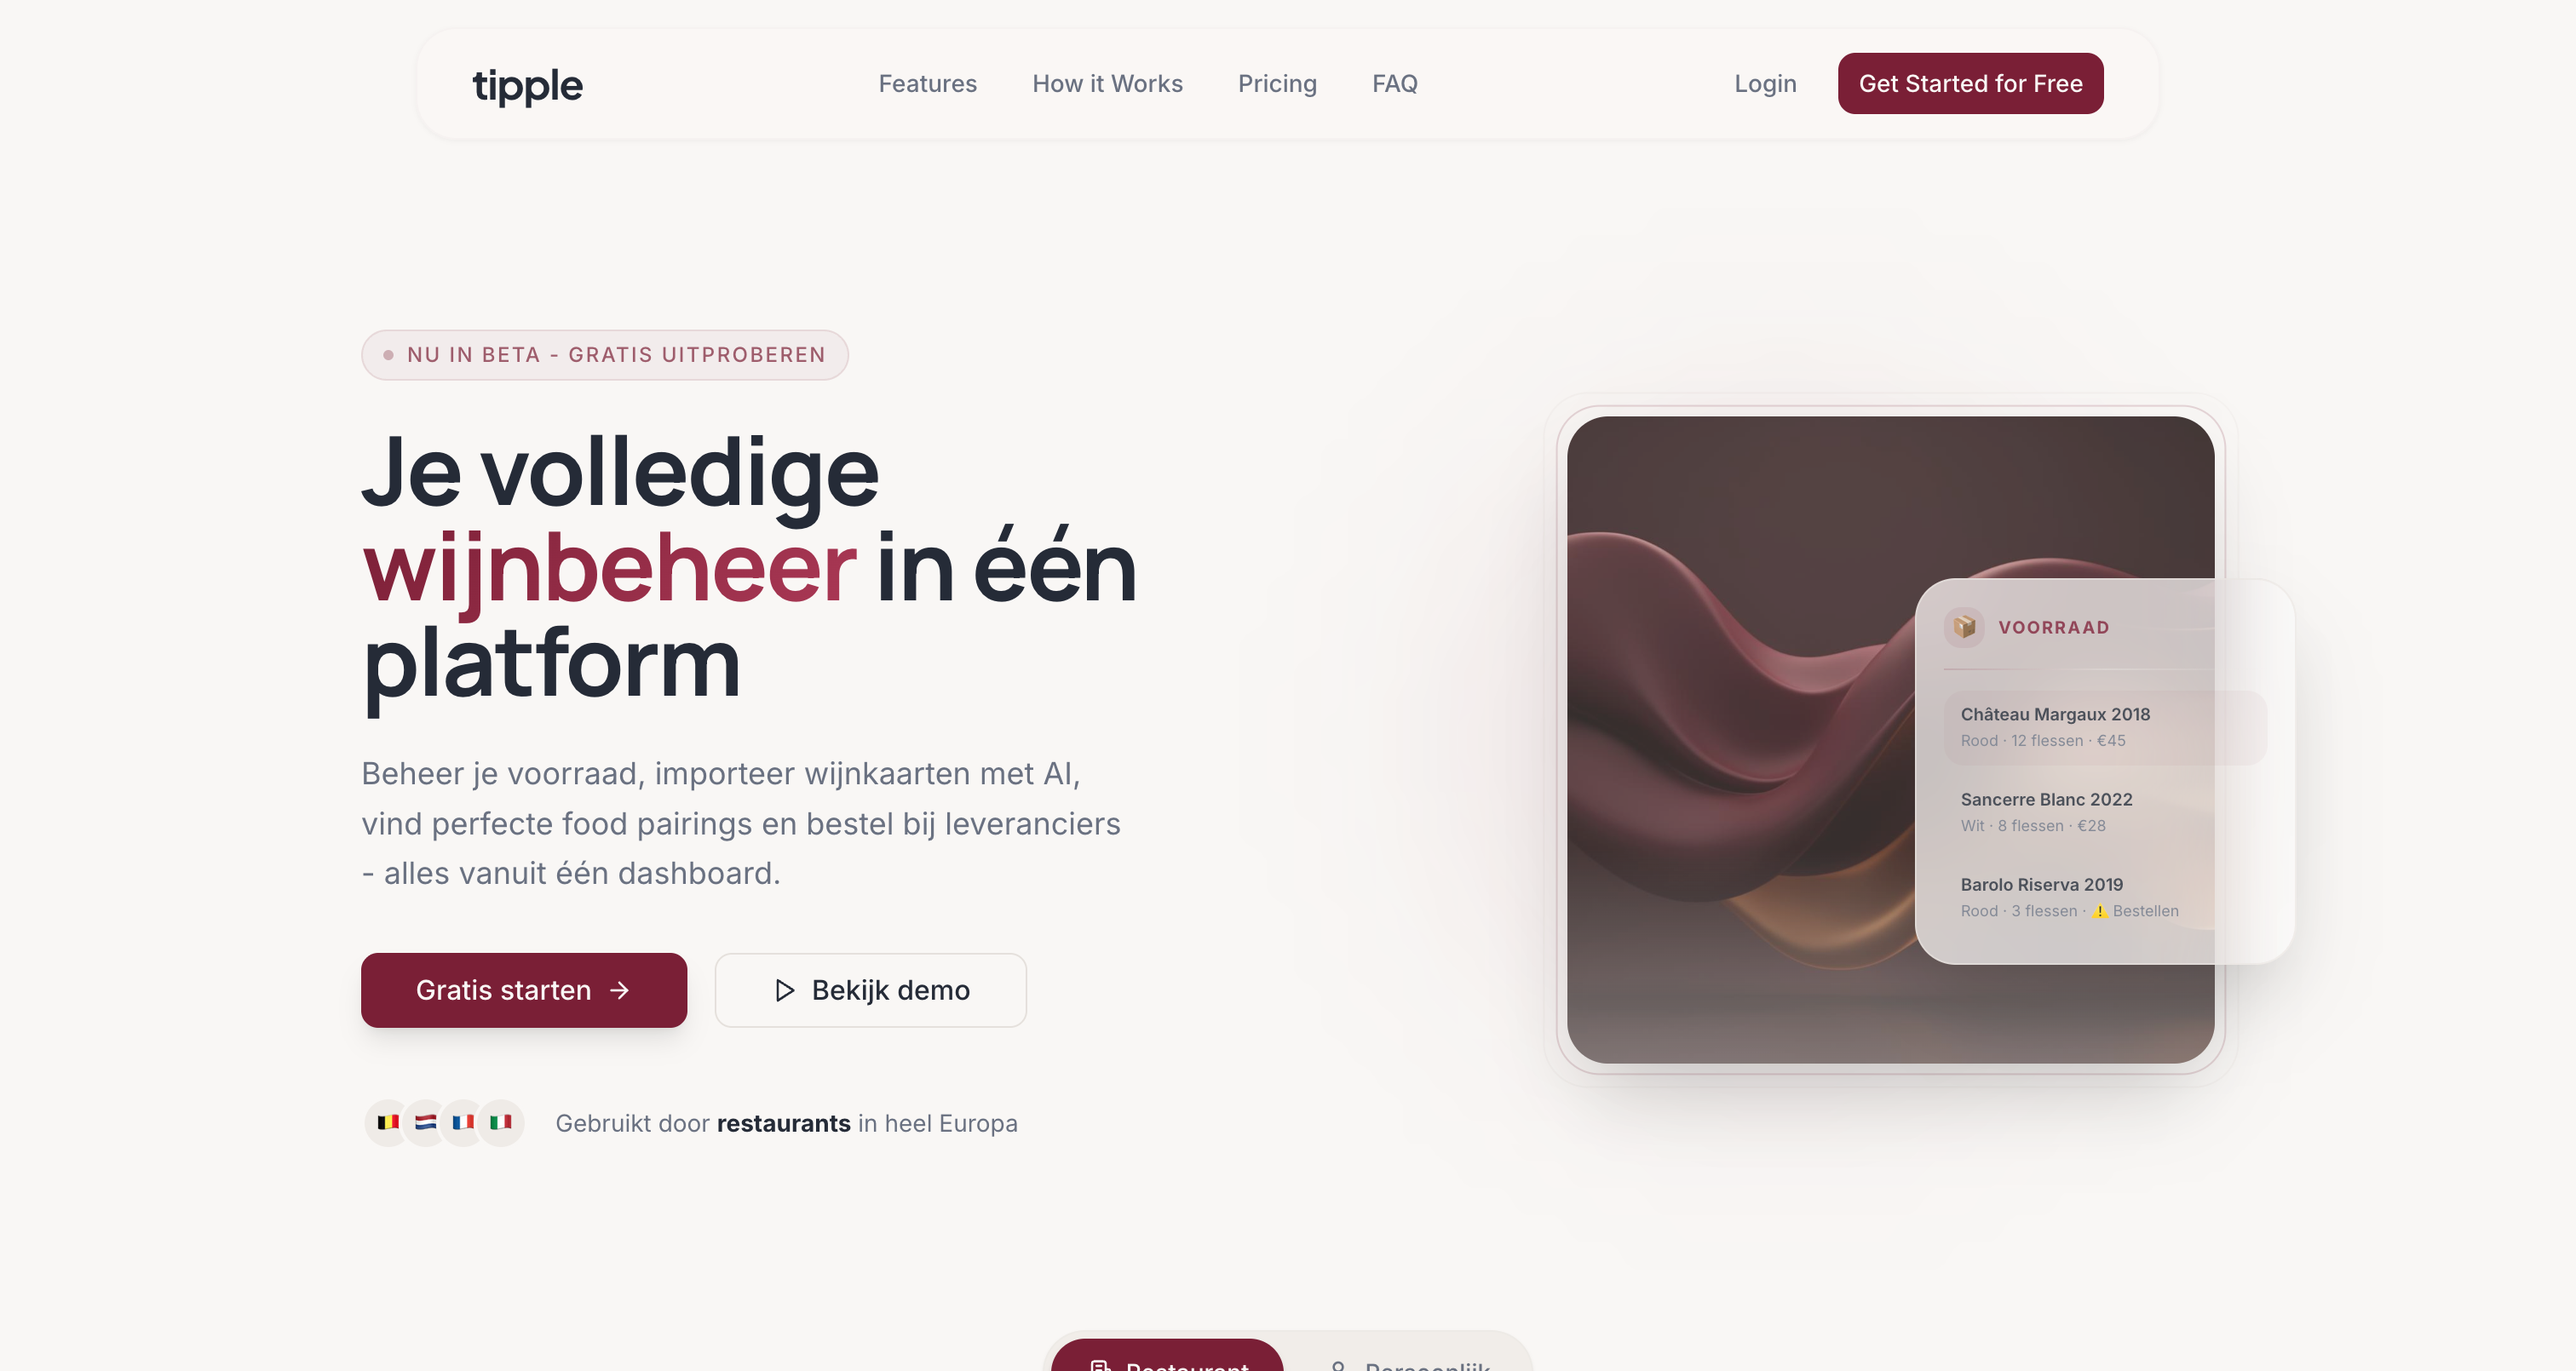
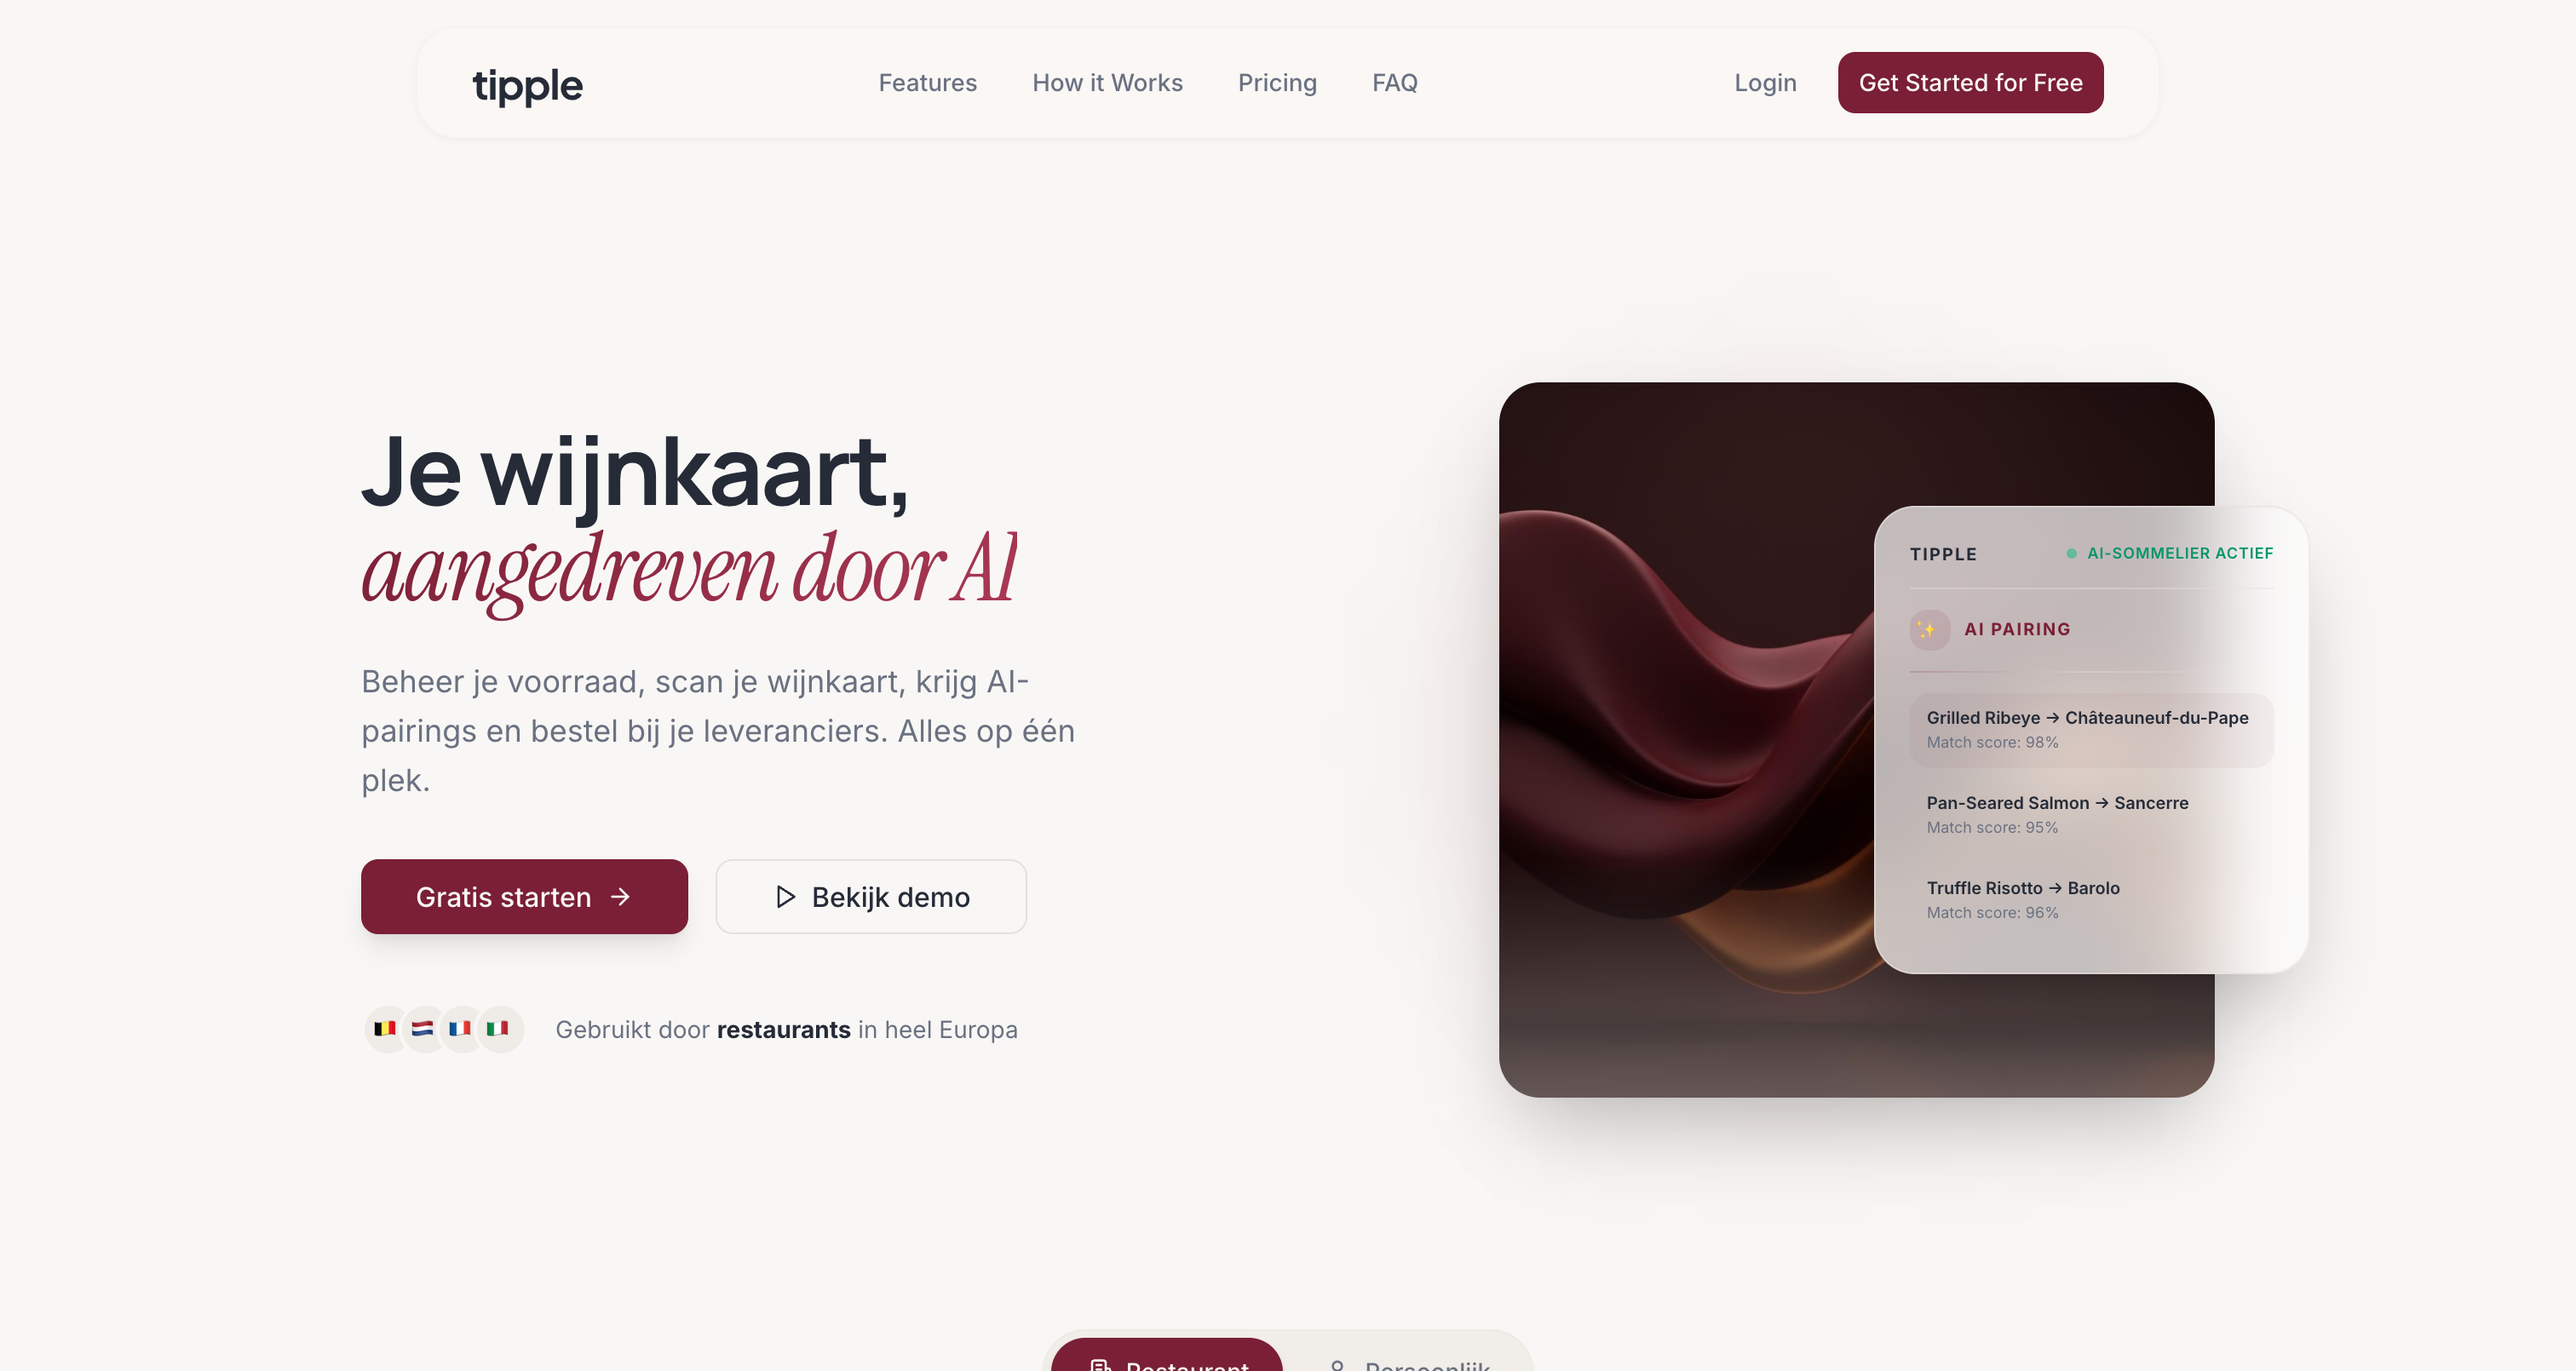
content: Tipple hero from new landing, add scrollable full-page capture
Tall images in the project modal now scroll inside the 16:9 frame instead of
being cropped to a middle band.

diff --git a/src/components/project-modal.tsx b/src/components/project-modal.tsx
@@ -17,7 +17,34 @@ import {
   CarouselPrevious,
 } from "@/components/ui/carousel";
 import Markdown from "react-markdown";
+import { useState } from "react";
 import { Button } from "./ui/button";
+
+// Images taller than the 16:9 frame (e.g. full-page captures) scroll inside
+// the frame instead of being cropped to a middle band.
+function ModalImage({ src, alt }: { src: string; alt: string }) {
+  const [tall, setTall] = useState(false);
+  if (tall) {
+    return (
+      <div className="absolute inset-0 overflow-y-auto">
+        <Image src={src} alt={alt} width={1920} height={1080} sizes="(min-width: 1024px) 1024px, 100vw" className="w-full h-auto" />
+      </div>
+    );
+  }
+  return (
+    <Image
+      src={src}
+      alt={alt}
+      fill
+      sizes="(min-width: 1024px) 1024px, 100vw"
+      className="object-cover"
+      onLoad={(e) => {
+        const img = e.currentTarget;
+        if (img.naturalHeight / img.naturalWidth > 0.7) setTall(true);
+      }}
+    />
+  );
+}
 
 interface ProjectModalProps {
   open: boolean;
@@ -82,12 +109,7 @@ export function ProjectModal({ open, onOpenChange, project }: ProjectModalProps)
                       loop
                     />
                   ) : (
-                    <Image
-                      src={mediaItems[0].src}
-                      alt={project.title}
-                      fill
-                      className="object-cover"
-                    />
+                    <ModalImage src={mediaItems[0].src} alt={project.title} />
                   )}
                 </div>
               ) : (
@@ -107,11 +129,9 @@ export function ProjectModal({ open, onOpenChange, project }: ProjectModalProps)
                               loop
                             />
                           ) : (
-                            <Image
+                            <ModalImage
                               src={media.src}
                               alt={`${project.title} - Image ${index + 1}`}
-                              fill
-                              className="object-cover"
                             />
                           )}
                         </div>

diff --git a/src/data/resume.tsx b/src/data/resume.tsx
@@ -291,6 +291,7 @@ export const DATA = {
       video: "",
       images: [
         "/projects/tipple-v2/thumbnail.png",
+        "/projects/tipple-v2/landing-full.png",
         "/projects/tipple-v2/dashboard.png",
         "/projects/tipple-v2/winecards.png",
       ],
